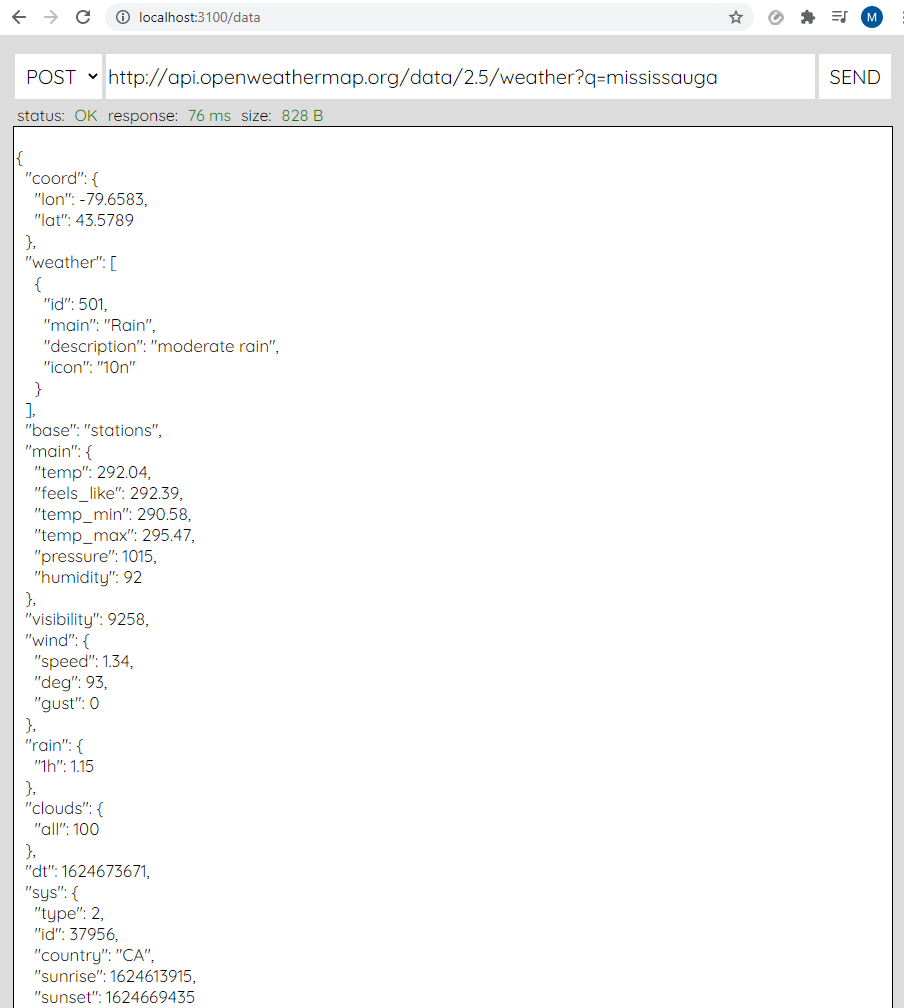
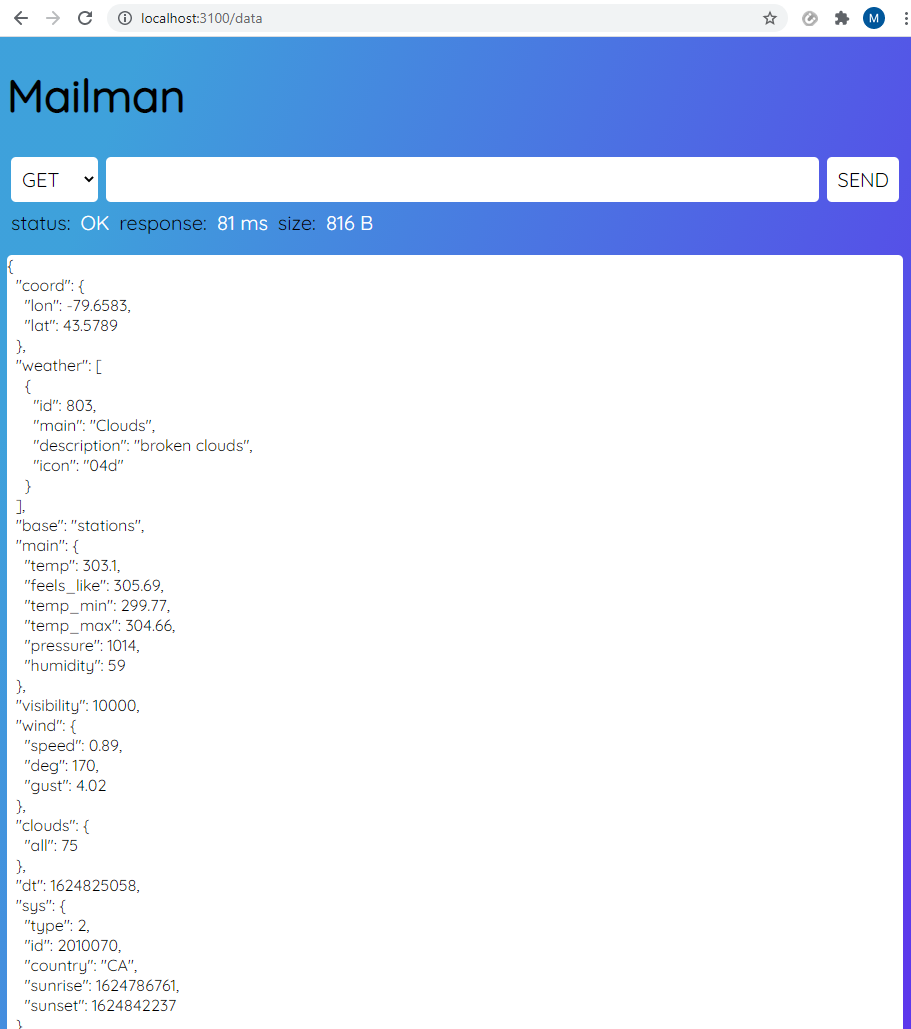
Added background gradient and font styling

Changed region(s): [[0.0, 0.0, 1.0, 1.0], [0.1858, 0.3383, 0.3097, 0.369]]

diff --git a/public/stylesheets/style.css b/public/stylesheets/style.css
@@ -3,29 +3,38 @@
   font: 14px "Lucida Grande", Helvetica, Arial, sans-serif;
 } */
 
-body{
-  background-color: #DCDCDC;
+body {
+  background-color: #dcdcdc;
   font-family: quicksand;
+  background-image: linear-gradient( 109.6deg,  rgba(62,161,219,1) 11.2%, rgba(93,52,236,1) 100.2% );
+  background-repeat: no-repeat;
+  height: 100vh;
 }
 
 a {
-  color: #00B7FF;
+  color: #00b7ff;
 }
 
-p{
+p {
   color: blue;
 }
 
-.top{
-  padding: 8px;
+h1 {
+  font-family: quicksand;
+  font-size: 45px;
+  padding: 0;
 }
-.request{
+
+/* .top {
+  padding: 8px;
+} */
+.request {
   display: flex;
   flex-direction: row;
   justify-content: space-between;
 }
 
-.stats{
+.stats {
   display: flex;
   flex-direction: row;
   justify-content: flex-start;
@@ -33,51 +42,53 @@ p{
   padding: 4px;
 }
 
-select{
+select {
   padding: 7px;
   background-color: white;
-  margin: 2px;
+  margin: 4px;
   border: none;
+  border-radius: 5px;
   font-family: quicksand;
   font-size: 20px;
 }
 
-input{
-  margin: 2px;
+input {
+  margin: 4px;
   background-color: white;
   border: none;
   width: 100%;
+  border-radius: 5px;
+
   font-family: quicksand;
   font-size: 20px;
-
 }
 
-button{
-  margin: 2px;
+button {
+  margin: 4px;
   padding: 10px;
   background-color: white;
   border: none;
+  border-radius: 5px;
+
   font-family: quicksand;
   font-size: 20px;
-
 }
 
-.response{
+.response {
   background-color: white;
-  margin-top: -3px;
-  border-style: solid;
-  border-width: 0.1pt;
+  border-style: none;
+  border-radius: 5px;
 }
 
-.status{
-  color: green;
+span{
+  font-size: 20px;
 }
 
-.preDiv{
-  /* margin: 20px; */
-  padding: 2px;
+.status {
+  color: white;
 }
-pre{
+
+pre {
   font-family: quicksand;
-  font-size: 17px;
+  /* font-size: 17px; */
 }

diff --git a/routes/index.js b/routes/index.js
@@ -35,7 +35,7 @@ router.post("/data", function (req, res, next) {
       console.log(`Difference - ${new Date().getTime() - started} ms`);
       var timeTaken = new Date().getTime() - started;
       var size = JSON.stringify(res2.data).length + JSON.stringify(res2.headers).length;
-      res.render("index", { response: res2.data, status: "OK", time: timeTaken, length: size});
+      res.render("index", { response: res2.data, status: "OK", time: timeTaken, length: size, title:"Mailman"});
     })
     .catch((err) => {
       console.log(err);
